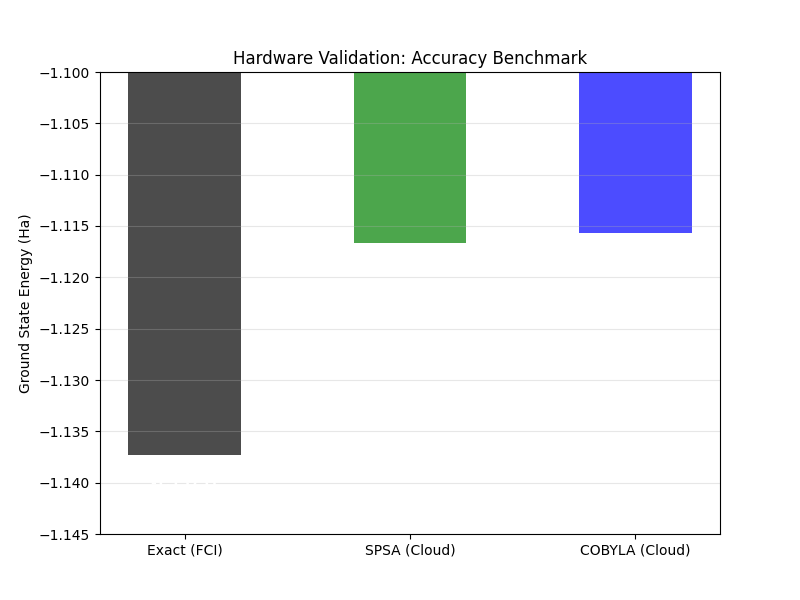
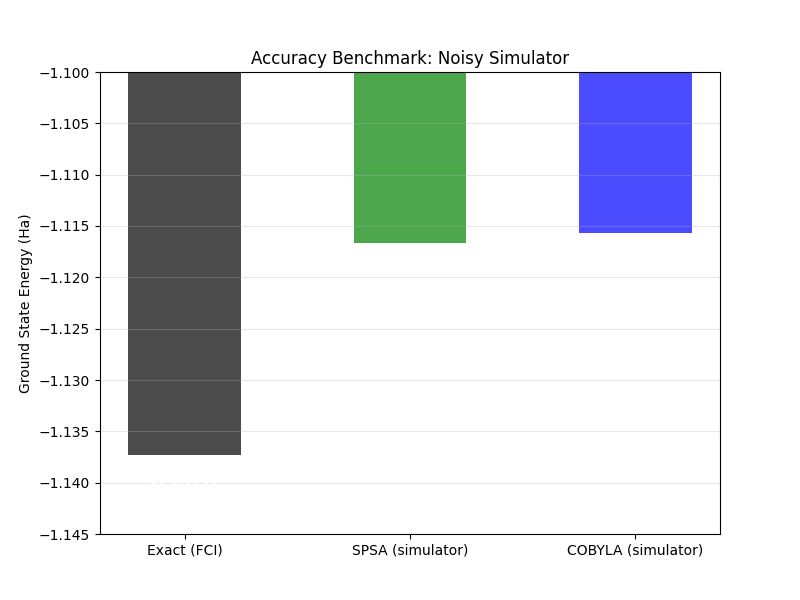
Clean up repo, fix README, relabel benchmark as simulator results
- Remove one-off helpers setup_project.sh (scaffolding, already listed in
  .gitignore) and generate_tree.py (README tree generator).
- Relabel the accuracy benchmark: the hard-coded energies come from a
  noisy-simulator run, not IBM hardware, so "SPSA/COBYLA (Cloud)" and
  "Hardware Validation" become "(simulator)" / "Noisy Simulator";
  regenerate results/h2/figures/accuracy_benchmark.png (only the labels
  and title change).
- README: real repository tree, fenced install commands using
  pip install -e ., Python/OS requirements, a figure-by-figure
  reproduction table that states which scripts currently fail and which
  numbers have no script, drop the IBM cloud acknowledgement, replace the
  "LLM tools only edited documentation" sentence, and list every
  AI-assisted commit (Claude and Codex).
- Mark the Codex-authored logging controls in VQERunner.

Verified: pytest 5/5; the only code change outside comments is the
plot labels/title in scripts/plot_benchmark.py.

Claude-Session: https://claude.ai/code/session_01Fsa1H8BT2mvNnRF1deSfDA

Changed region(s): [[0.2812, 0.09, 0.75, 0.12], [0.7188, 0.9, 0.875, 0.93], [0.4375, 0.9, 0.5938, 0.93]]

diff --git a/scripts/plot_benchmark.py b/scripts/plot_benchmark.py
@@ -1,13 +1,15 @@
 """Plot the H2 accuracy bar chart (results/h2/figures/accuracy_benchmark.png).
 
-The energies are hard-coded below; no script in this repository produces them.
+The energies are hard-coded below. They are believed to come from a noisy
+*simulator* run (Aer, as in run_noise_comparison.py), not from IBM hardware;
+that run is not recorded in this repository.
 """
 
 import matplotlib.pyplot as plt
 
-# Hard-coded; the run that produced these values is not recorded in this repo.
+# Hard-coded simulator results (see module docstring for provenance).
 energies = [-1.13731, -1.11666, -1.11567]
-labels = ['Exact (FCI)', 'SPSA (Cloud)', 'COBYLA (Cloud)']
+labels = ['Exact (FCI)', 'SPSA (simulator)', 'COBYLA (simulator)']
 colors = ['black', 'green', 'blue']
 
 plt.figure(figsize=(8, 6))
@@ -21,7 +23,7 @@ for bar in bars:
 # Narrow y-range: the differences are a few mHa on a ~1.1 Ha scale.
 plt.ylim(-1.145, -1.10)
 plt.ylabel('Ground State Energy (Ha)')
-plt.title('Hardware Validation: Accuracy Benchmark')
+plt.title('Accuracy Benchmark: Noisy Simulator')
 plt.grid(axis='y', alpha=0.3)
 
 plt.savefig('results/h2/figures/accuracy_benchmark.png')

diff --git a/src/vqe/vqe_runner.py b/src/vqe/vqe_runner.py
@@ -6,6 +6,8 @@ from qiskit_algorithms import VQE
 
 from .backends.ideal import get_ideal_estimator
 
+# AI-assisted (Codex, 2902ae0 via PR #1): the verbose/print_every options, the
+# progress printing in callback() and the type hints.
 class VQERunner:
     """Run VQE and record the energy at every optimizer evaluation.
 

diff --git a/README.md b/README.md
@@ -32,92 +32,62 @@ Executed on a local Qiskit Aer simulator using a depolarizing-noise model (`src/
 ## 3. Repository Structure
 ```text
 Variational-Quantum-Eigensolver/
-├── src/
-│   ├── vqe/
-│   │   ├── measurement.py
-│   │   ├── plotting.py
-│   │   ├── config.py
-│   │   ├── metrics.py
-│   │   ├── utils.py
-│   │   ├── vqe_runner.py
-│   │   ├── hamiltonians/
-│   │   │   ├── tfim.py
-│   │   │   ├── h2.py
-│   │   ├── ansatz/
-│   │   │   ├── ucc_like.py
-│   │   │   ├── hardware_efficient.py
-│   │   ├── optimizers/
-│   │   │   ├── spsa.py
-│   │   │   ├── scipy_opt.py
-│   │   ├── backends/
-│   │   │   ├── shot_based.py
-│   │   │   ├── noisy.py
-│   │   │   ├── ideal.py
-├── scripts/
-│   ├── run_h2_scan.py
-│   ├── run_tfim_grid.py
-│   ├── run_ansatz_comparison.py
-│   ├── run_noise_comparison.py
-│   ├── plot_benchmark.py
-├── results/
-│   ├── h2/
-│   │   ├── figures/
-│   │   │   ├── accuracy_benchmark.png
-│   │   │   ├── noise_comparison.png
-│   │   │   ├── dissociation_curve.png
-│   │   │   ├── ansatz_comparison.png
-│   ├── tfim/
-│       ├── figures/
-│           ├── tfim_scan.png
-├── tests/
-│   ├── test_vqe_smoke.py
-│   ├── test_hamiltonians.py
-│   ├── test_expectation.py
-│   ├── test_ansatz.py
-├── requirements.txt
-├── README.md
+├── src/vqe/               # importable package
+│   ├── hamiltonians/      # H2 (PySCF, STO-3G) and TFIM qubit Hamiltonians
+│   ├── ansatz/            # TwoLocal (hardware-efficient) and UCCSD
+│   ├── backends/          # ideal, shot-based and noisy (Aer) estimators
+│   ├── optimizers/        # COBYLA and SPSA factories
+│   ├── vqe_runner.py      # VQE wrapper that records the energy history
+│   ├── metrics.py, plotting.py, measurement.py, utils.py, config.py
+├── scripts/               # one script per figure; run from the repo root
+├── results/h2/figures/    # H2 figures
+├── results/tfim/figures/  # TFIM figure
+├── tests/                 # pytest suite
+├── .github/workflows/     # CI: tests + lint
+├── pyproject.toml         # package metadata and pinned dependencies
+└── requirements.txt       # the same pins, for pip install -r
 ```
 
 ## 4. Installation & Dependencies
-To ensure scientific reproducibility, this project uses specific versions of Qiskit and PySCF.
+Requires Python 3.11 (the version CI tests) on Linux or macOS; PySCF has no Windows wheels, so use WSL on Windows. All dependencies are pinned in `pyproject.toml`.
 
-Clone the repository:
+```bash
 git clone https://github.com/thetomato0607/Variational-Quantum-Eigensolver.git
 cd Variational-Quantum-Eigensolver
-
-
-Create a virtual environment (Recommended):
-python -m venv vqe_env
-source vqe_env/bin/activate  # On Windows: vqe_env\Scripts\activate
-
-Install dependencies:
-pip install -r requirements.txt
-
-
-Key Dependencies:
-- qiskit>=1.0
-- pyscf>=2.5
-- qiskit-aer
-- qiskit-nature
-- matplotlib
-- numpy
+python -m venv .venv
+source .venv/bin/activate        # Windows (WSL): same command
+pip install -e .                 # installs the vqe package and pinned dependencies
+pip install pytest && pytest tests/
+```
 
 ## 5. Reproducibility
-Only the noisy-simulation backend is currently seeded: `src/vqe/backends/noisy.py` sets `estimator.options.seed_simulator = 42` on the Aer noise sampler. Ansatz parameter initialization and SPSA's perturbation sampling (`src/vqe/optimizers/spsa.py`) do not currently take a seed, so runs that exercise those paths are not fully deterministic.
+Run every script from the repository root; each writes its figure to the path shown.
 
-## 6. Acknowledge
+| Figure / number in section 2 | Command | Status |
+|---|---|---|
+| `results/tfim/figures/tfim_scan.png` | `python scripts/run_tfim_grid.py` | Runs |
+| `results/h2/figures/ansatz_comparison.png`; TwoLocal error at 1.5 Å, iteration counts | `python scripts/run_ansatz_comparison.py` | Runs; the TwoLocal error varies between runs because the initial point is unseeded (one re-run gave ~90 mHa) |
+| `results/h2/figures/dissociation_curve.png` | `python scripts/run_h2_scan.py` | **Currently fails** with the pinned versions: it passes a V2 estimator to qiskit-algorithms' VQE |
+| `results/h2/figures/noise_comparison.png` | `python scripts/run_noise_comparison.py` | **Currently fails** for the same reason (Aer `EstimatorV2`) |
+| `results/h2/figures/accuracy_benchmark.png`; SPSA −1.1167 Ha | `python scripts/plot_benchmark.py` | Plots hard-coded energies from an earlier noisy-simulator run that is not recorded here |
+| UCCSD chemical accuracy at equilibrium | — | No script in this repository runs UCCSD at 0.735 Å |
+
+Only the noisy-simulation backend is seeded: `src/vqe/backends/noisy.py` sets `estimator.options.seed_simulator = 42` on the Aer noise sampler. Ansatz parameter initialization and SPSA's perturbation sampling (`src/vqe/optimizers/spsa.py`) do not take a seed, so runs that exercise those paths are not fully deterministic.
+
+## 6. Acknowledgements
 - University College London (UCL) Department of Physics.
-- IBM Quantum for providing access to cloud-based runtime primitives.
-- Preliminary drafts of the documentation were edited for clarity using LLM tools; all data and analysis are original work.
+- AI tools were used for parts of the documentation and code; section 8 lists every AI-assisted change.
 
 ## 7. License
 This project is licensed under the MIT License - see the LICENSE file for details.
 
 ## 8. AI assistance
 
-Parts of this repository were written or changed with Claude, Anthropic's AI assistant. Affected code is marked in place with comments of the form `AI-assisted (Claude, <commit>)`; list them with `git grep -n "AI-assisted"`.
+Parts of this repository were written or changed with AI assistants. Affected code is marked in place with comments of the form `AI-assisted (<tool>, <commit>)`; list them with `git grep -n "AI-assisted"`.
 
-- `da5aa23`: `pyproject.toml`, `requirements.txt` pins, `.pre-commit-config.yaml`, README accuracy fixes, removal of unrelated `vqc/` and `archive_offline/` folders.
-- `ccab99a`: `.github/workflows/tests.yml`.
-- `6645992`: `src/vqe/backends/ideal.py` switched to the V1 `Estimator` to fix a VQE crash.
-- The commit that added this section: docstrings and explanatory comments across the code.
+- `2902ae0` (OpenAI Codex, merged via PR #1): `VQERunner` logging controls (`verbose`, `print_every`) and type hints.
+- `da5aa23` (Claude): `pyproject.toml`, `requirements.txt` pins, `.pre-commit-config.yaml`, README accuracy fixes, removal of unrelated `vqc/` and `archive_offline/` folders.
+- `ccab99a` (Claude): `.github/workflows/tests.yml`.
+- `6645992` (Claude): `src/vqe/backends/ideal.py` switched to the V1 `Estimator` to fix a VQE crash.
+- `531911f` (Claude): docstrings and explanatory comments across the code.
+- The commit after `531911f` (Claude): README corrections, removal of the one-off `setup_project.sh` and `generate_tree.py` helpers, and relabelling of the accuracy benchmark from "Cloud"/"Hardware Validation" to simulator.
